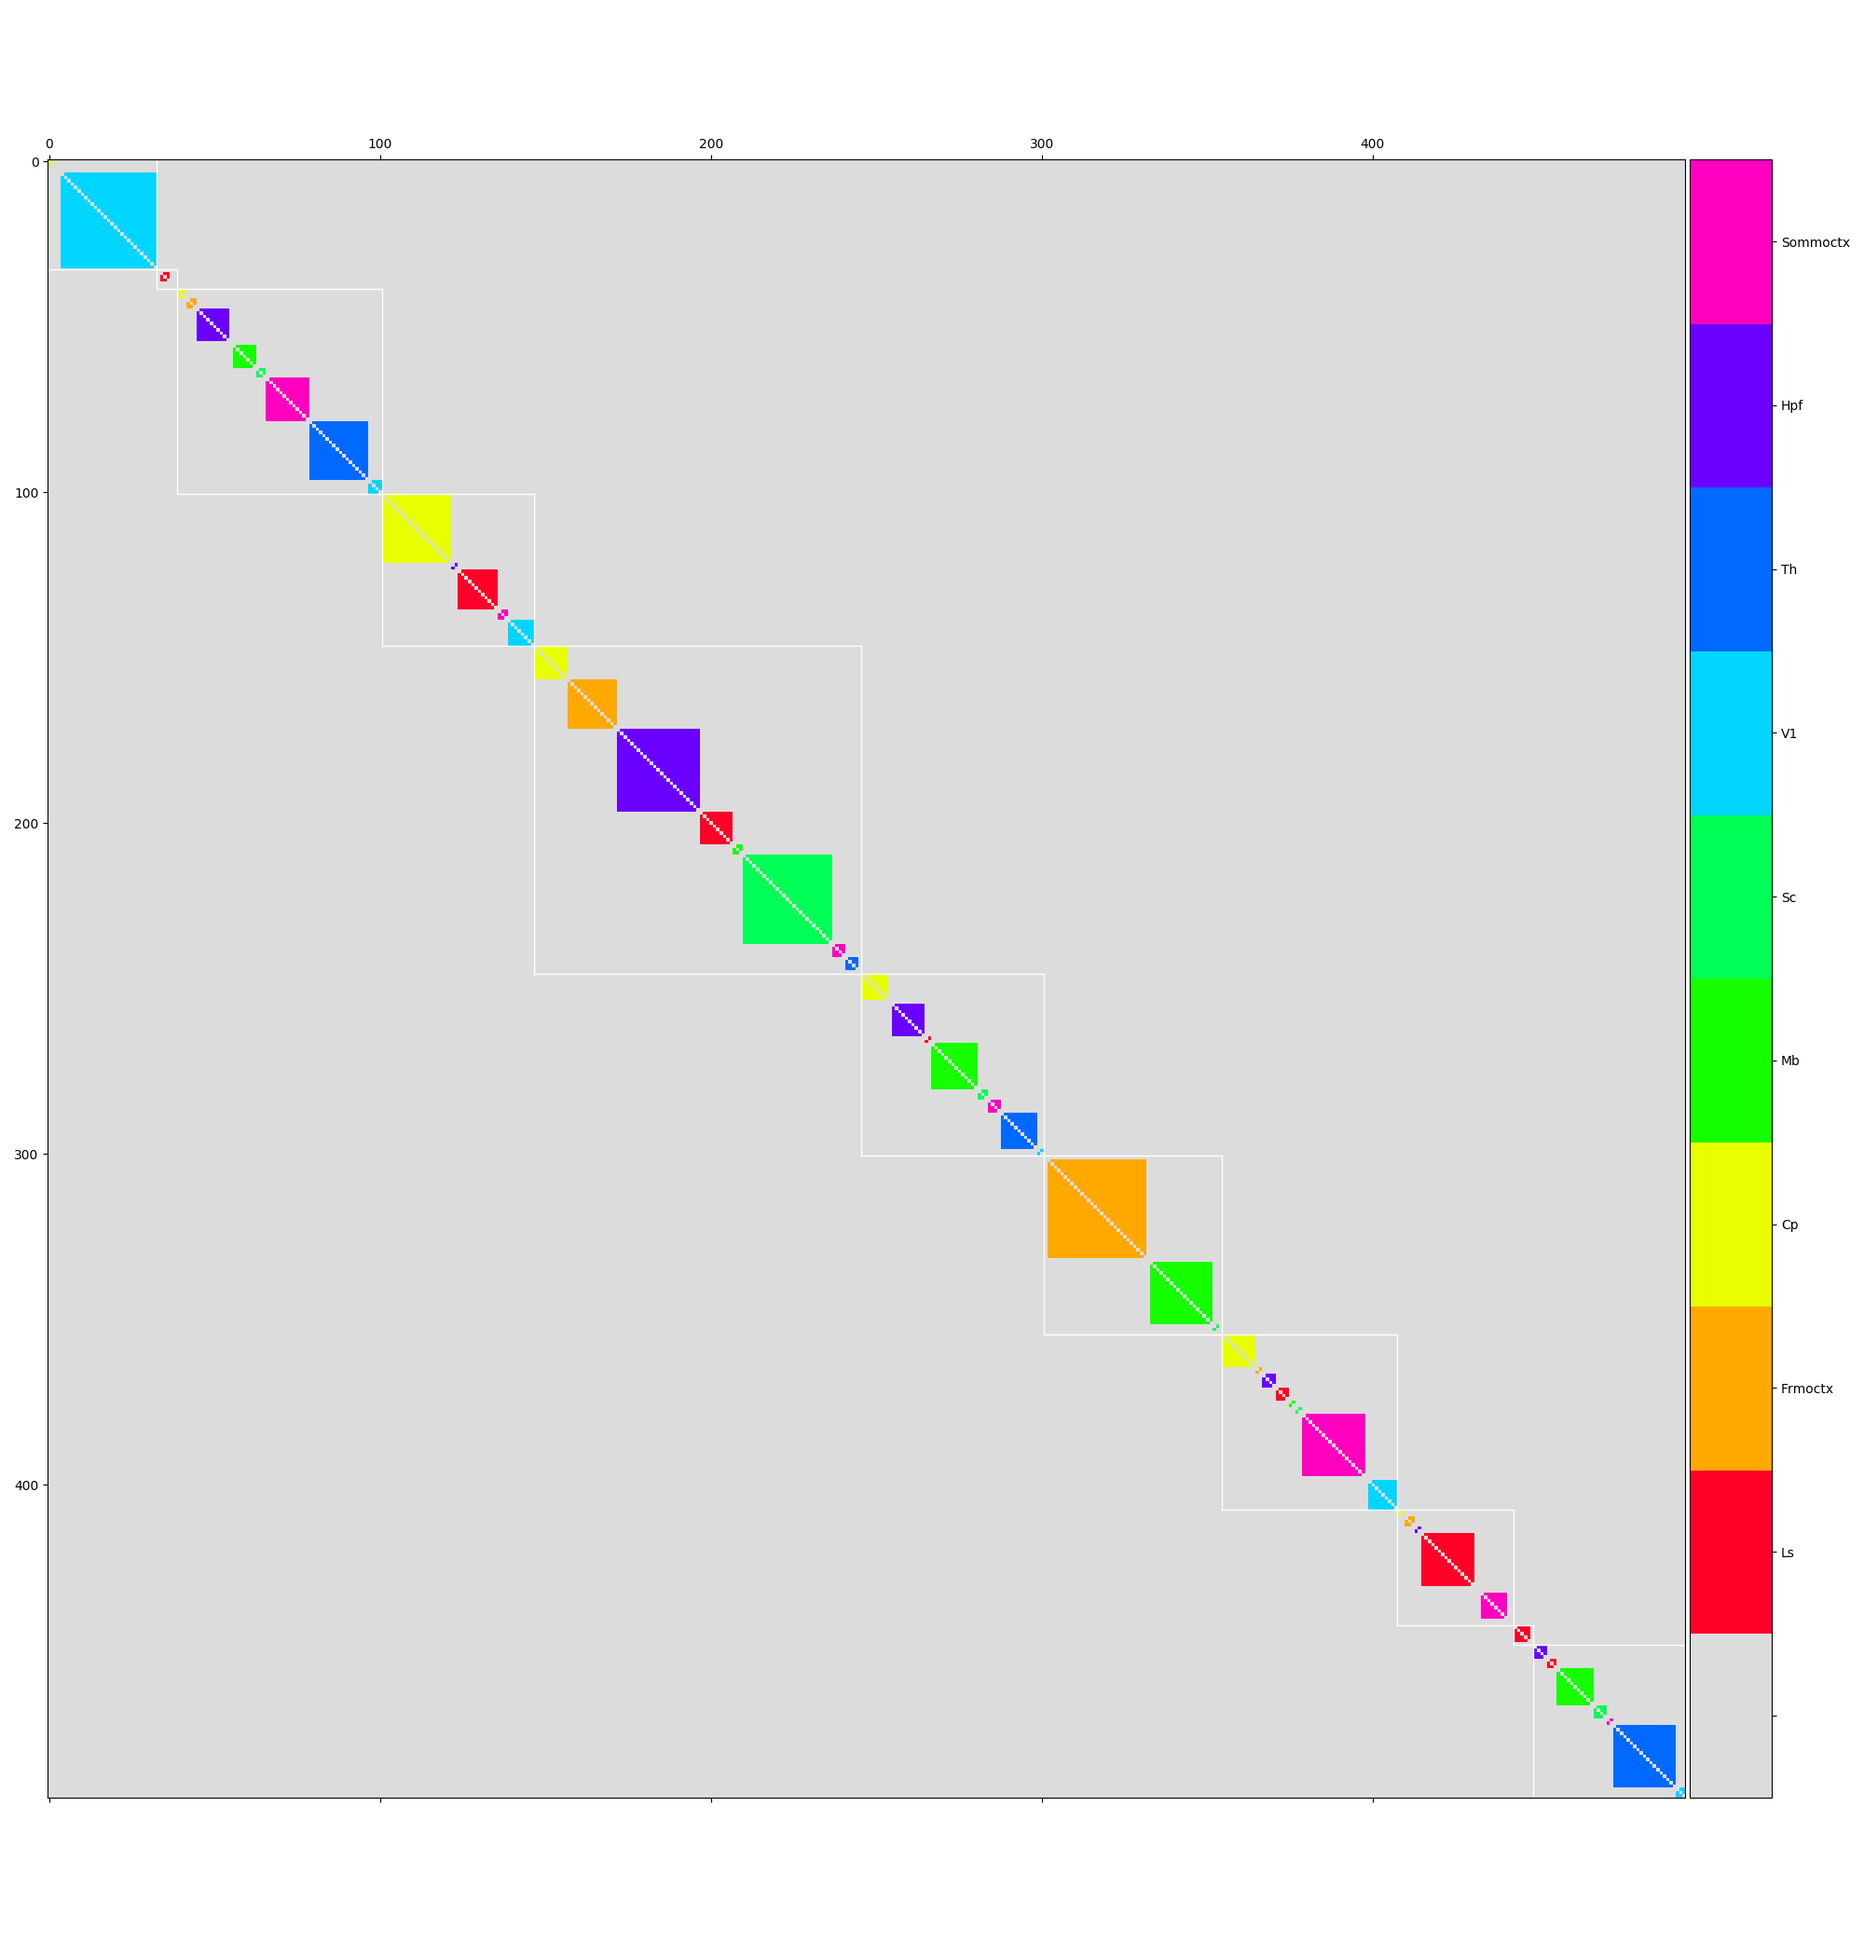
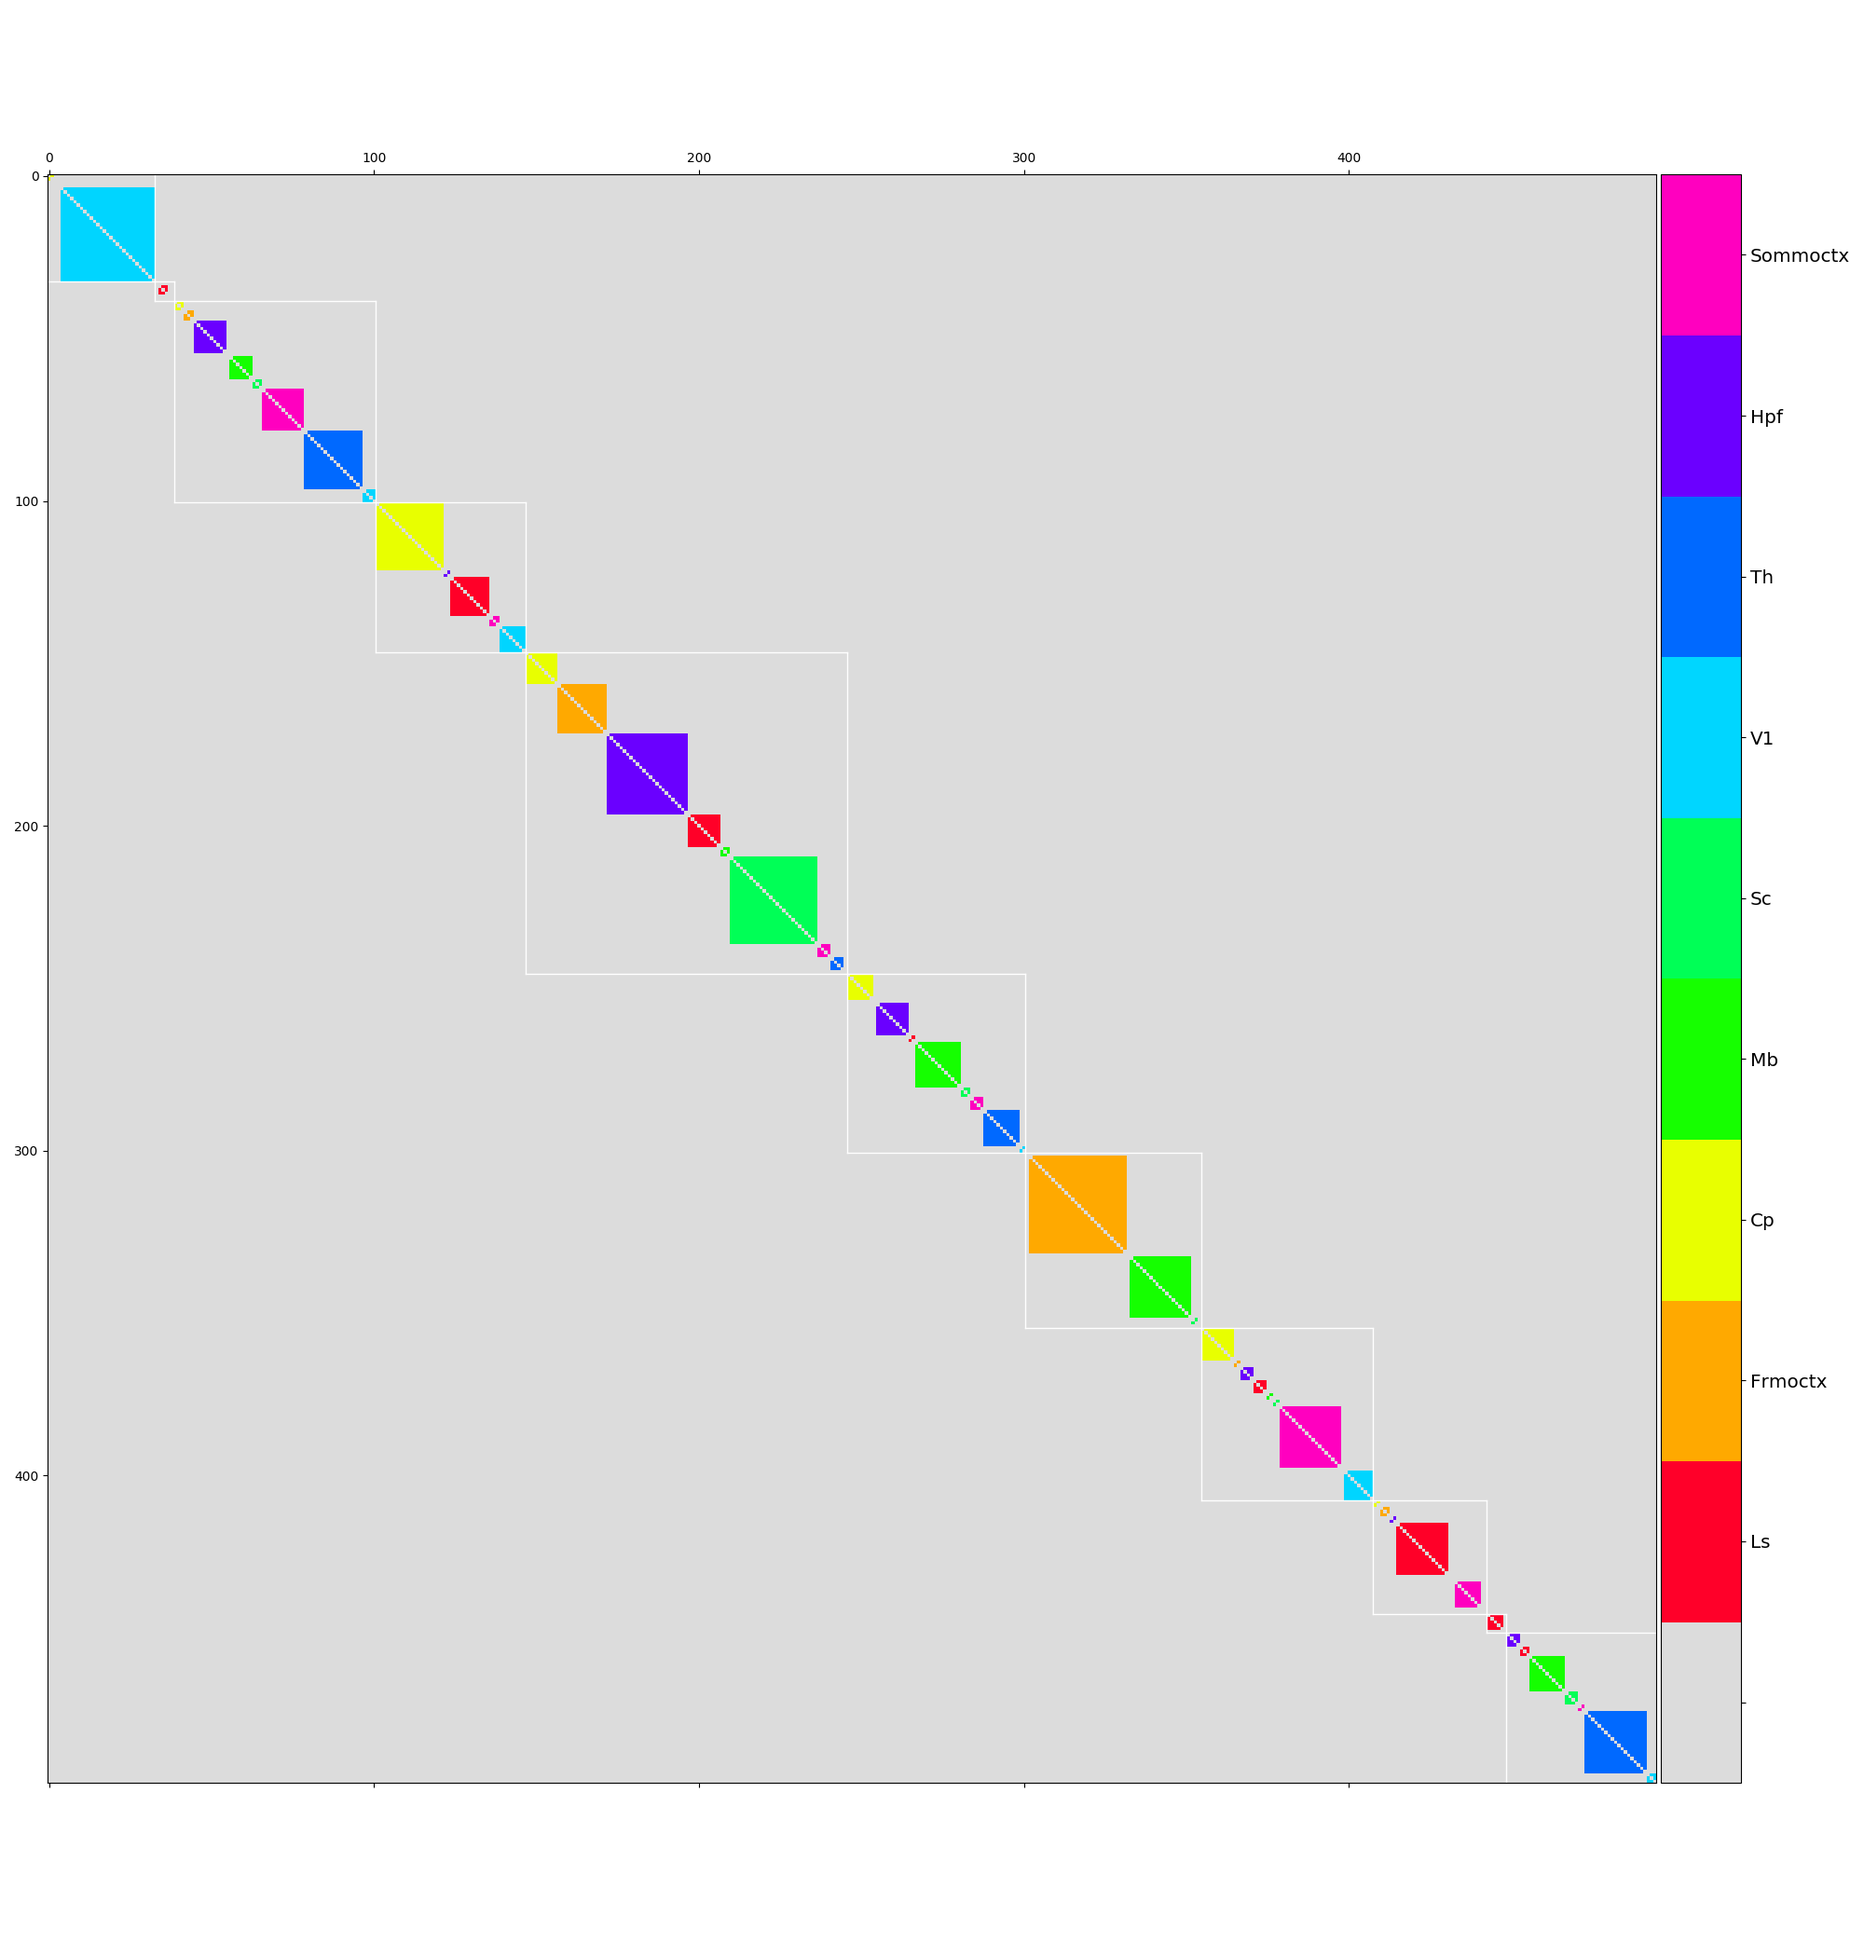
Updating regional cluster maps. Also edited detect communities

diff --git a/py/plot_communities.py b/py/plot_communities.py
@@ -74,13 +74,13 @@ def plotRegionalClusterMap(signal_final_cell_info):
     plt.tight_layout()
 
 print(dt.datetime.now().isoformat() + ' INFO: ' + 'Starting main function...')
-bin_width = 1.0
-mouse_name = ep.mouse_names[0]
-signal_final_cell_info = loadCommunityInfo(mouse_name, bin_width, npy_dir)
-plotRegionalClusterMap(signal_final_cell_info)
-fig_file_name = os.path.join(image_dir, 'community_detection', 'regional_cluster_maps', mouse_name + '_' + str(bin_width).replace('.','p') + '_regional_cluster_map.png')
-plt.savefig(fig_file_name)
-print(dt.datetime.now().isoformat() + ' INFO: ' + fig_file_name + ' saved.')
+for bin_width in ep.selected_bin_widths:
+    for mouse_name in ep.mouse_names:
+        signal_final_cell_info = loadCommunityInfo(mouse_name, bin_width, npy_dir)
+        plotRegionalClusterMap(signal_final_cell_info)
+        fig_file_name = os.path.join(image_dir, 'community_detection', 'regional_cluster_maps', mouse_name + '_' + str(bin_width).replace('.','p') + '_regional_cluster_map.png')
+        plt.savefig(fig_file_name)
+        print(dt.datetime.now().isoformat() + ' INFO: ' + fig_file_name + ' saved.')
 
 # TODO  dictionary of proper names
 #       make the figures bigger

diff --git a/py/detect_communities.py b/py/detect_communities.py
@@ -62,7 +62,7 @@ if (not args.debug) & (__name__ == '__main__'):
     print(dt.datetime.now().isoformat() + ' INFO: ' + 'Starting main function...')
     print(dt.datetime.now().isoformat() + ' INFO: ' + 'Loading cell info...')
     cell_info = pd.read_csv(os.path.join(csv_dir, 'cell_info.csv'), index_col=0)
-    for bin_width in ep.selected_bin_widths:
+    for bin_width in ep.selected_bin_widths[1:]:
         print(dt.datetime.now().isoformat() + ' INFO: ' + 'Processing bin width ' + str(bin_width) + '...')
         for mouse_name in  ep.mouse_names:
             print(dt.datetime.now().isoformat() + ' INFO: ' + 'Processing mouse name ' + mouse_name + '...')
